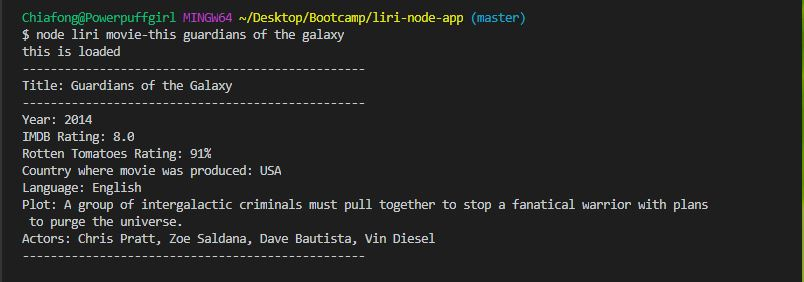
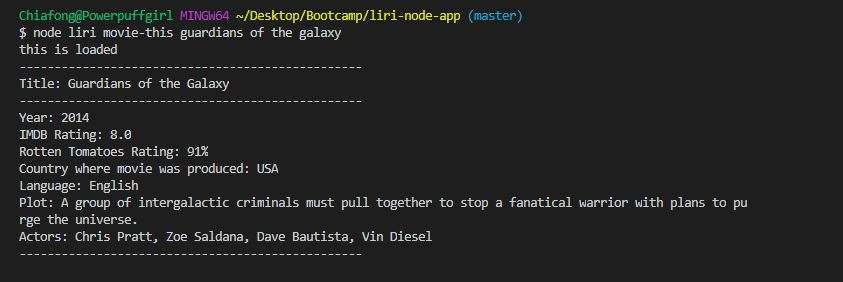
updated screenshots to be similar width

diff --git a/README.md b/README.md
@@ -42,38 +42,59 @@ LIRI will search for parameters given in the command line and return data using 
 
 **Examples**
 
-Screenshot of concert-this with band name:
+*Screenshot of concert-this with band name:*
 ![Image of concert-this](images/concert.JPG)
-Screenshot of concert-this without band name:
+
+*Screenshot of concert-this without band name:*
 ![Image of concert-this with default](images/concertDefault.JPG)
-Screenshot of spotify-this-song with title of song:
+
+*Screenshot of spotify-this-song with title of song:*
 ![Image of concert-this with default](images/spotify.JPG)
-Screenshot of spotify-this-song without title of song:
+
+*Screenshot of spotify-this-song without title of song:*
 ![Image of concert-this with default](images/spotifyDefault.JPG)
-Screenshot of movie-this with title:
+
+*Screenshot of movie-this with title:*
 ![Image of concert-this with default](images/movie.JPG)
-Screenshot of movie-this without title:
+
+*Screenshot of movie-this without title:*
 ![Image of concert-this with default](images/movieDefault.JPG)
-Screenshot of do-what is says:
+
+*Screenshot of do-what is says:*
 ![Image of concert-this with default](images/random1.JPG)
-Screenshot of do-what is says after modifying random.txt:
+
+*Screenshot of do-what is says after modifying random.txt:*
 ![Image of concert-this with default](images/random2.JPG)
 
 **How to run the app:**
 
-**Link to a deployed version of the app:**
+1. Clone a copy to your local drive.
+1. Make sure you have all the npm packages installed; enter the following in your terminal to update package.json:
 
+    npm install
+1. Sign up for Spotify API keys; create a file named .env and add your Spotify keys in that file. (You need to supply your own Spotify API key)
 
-**List technologies used in the app:**
+    Example:
 
+        Spotify API keys
 
-**Role in app development:**
-    
+        SPOTIFY_ID=your-spotify-id
+        SPOTIFY_SECRET=your-spotify-secret
+1. In your terminal, type in the commands in the Parameters or Example sections above to test it out.
+1. Have fun!!!
+
+**Link to Github:**
+
+[LIRI-Bot](https://github.com/cftgithub/liri-node-app)
+  
 **Technologies Used**
 
-* Bands in Town API
-* OMDB API
-* Node-Spotify-API
+* Javascript
+* Node.js
 * Axios NPM
 * Moment NPM
 * DotEnv NPM
+* fs/File-System
+* Bands in Town API
+* OMDB API
+* Node-Spotify-API
